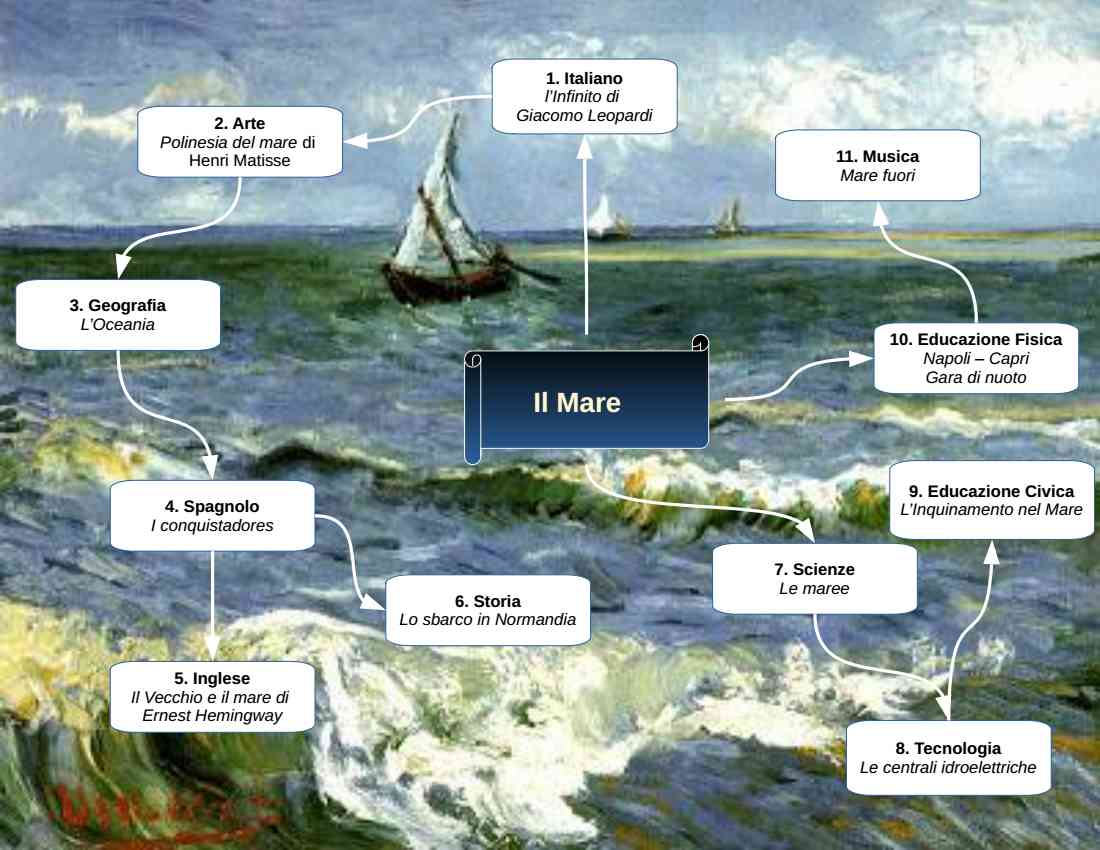
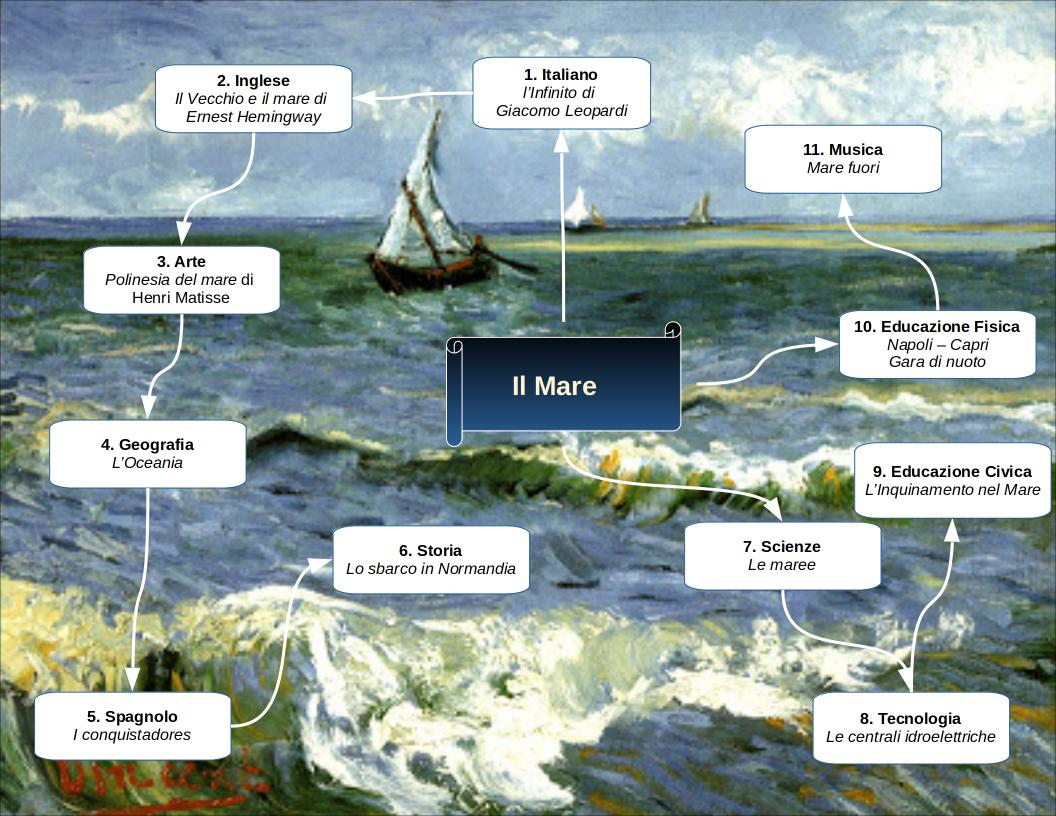
Aggiornamenti

diff --git a/docs/conf.py b/docs/conf.py
@@ -19,6 +19,8 @@ latex_documents = [
     ('index', 'Mare.tex', project, author, 'manual'),
 ]
 latex_elements = {
+    'pointsize': '12pt',
+    'pxunit': '0.50bp',
     'extraclassoptions': 'openany,oneside',
     'releasename': 'IC22 "Alberto Mario" - A.S. 2022/2023'
 }

diff --git a/docs/storia.rst b/docs/storia.rst
@@ -7,27 +7,34 @@ Lo sbarco in Normandia
 
 Lo **Sbarco in Normandia** fu una delle più grandi invasioni provenienti dal mare che accadde durante la seconda guerra mondiale.
 
-Venne deciso attraverso la **Conferenza di Teheran** del Novembre-dicembre 1943, durante la quale il presidente americano **Franklin Delano Roosevelt**, il leader dell’Unione Sovietica **Iosif Stalin** e il Primo ministro del Regno unito **Winston Churchill** discussero le varie possibilità per contrastare Hitler e il Nazismo.
+Venne deciso attraverso la **Conferenza di Teheran** del Novembre-dicembre 1943, durante la quale il presidente americano **Franklin Delano Roosevelt**,
+il leader dell’Unione Sovietica **Iosif Stalin** e il Primo ministro del Regno unito **Winston Churchill** discussero le varie possibilità per
+contrastare Hitler e il Nazismo.
 
-Il **D-Day** fu la più grande operazione coordinata navale, aerea e terrestre della storia e richiese una cooperazione senza precedenti tra forze armate internazionali.
+Il **D-Day** fu la più grande operazione coordinata navale, aerea e terrestre della storia e richiese una cooperazione senza precedenti tra forze armate
+internazionali.
 
-Noto con il nome in codice di "**Operazione Overlord**", lo sbarco alleato sulle coste della Normandia segnò l’inizio di una lunga e complessa campagna per liberare il nord-est dell’Europa dall’occupazione tedesca.
+Noto con il nome in codice di "**Operazione Overlord**", lo sbarco alleato sulle coste della Normandia segnò l’inizio di una lunga e complessa campagna
+per liberare il nord-est dell’Europa dall’occupazione tedesca.
 
-.. image:: _images/sbarcoNormandia.jpg
-   :align: center
-
-Questa operazione, che fu anche una delle più complesse della storia, fu organizzata facendo attenzione al minimo dettaglio. L’obiettivo era eliminare il nazismo in Europa che si stava diffondendo velocemente come un virus.
+Questa operazione, che fu anche una delle più complesse della storia, fu organizzata facendo attenzione al minimo dettaglio.
+L’obiettivo era eliminare il nazismo in Europa che si stava diffondendo velocemente come un virus.
 
 Per fare ciò nel 1944 più di due milioni di soldati di oltre dodici Paesi si trovavano in Gran Bretagna in attesa dell’invasione.
 
+.. image:: _images/sbarcoNormandia.jpg
+   :align: center
+   :height: 300px
+
 Le forze alleate lanciarono un assalto combinato navale, aereo e terrestre contro la Francia occupata dai nazisti.
 
-Il 6 giugno 1944 le forze aeree si lanciarono in paracadute su diversi punti della Francia. Poco dopo le truppe terrestri sbarcarono su cinque spiagge e dettero inizio all’assalto via mare.
+Il 6 giugno 1944 le forze aeree si lanciarono in paracadute su diversi punti della Francia. Poco dopo le truppe terrestri sbarcarono su cinque spiagge
+e dettero inizio all’assalto via mare.
 
-Il giorno dello sbarco le forze alleate erano composte soprattutto da truppe statunitensi, britanniche e canadesi, ma inclusero l’appoggio navale, aereo o terrestre di Australia, Belgio, Repubblica Ceca, Olanda, Francia, Grecia, Nuova Zelanda, Norvegia, Rhodesia e Polonia.
+Il giorno dello sbarco le forze alleate erano composte soprattutto da truppe statunitensi, britanniche e canadesi, ma inclusero l’appoggio navale,
+aereo o terrestre di Australia, Belgio, Repubblica Ceca, Olanda, Francia, Grecia, Nuova Zelanda, Norvegia, Rhodesia e Polonia.
 
 La battaglia di Normandia durò quasi tre mesi, molto più a lungo di quanto gli strateghi alleati avessero previsto.
 
-Oggi si possono visitare molti musei dedicati alla storia dello sbarco in Normandia e della battaglia di Normandia, come per esempio il **Museo dello Sbarco** ad **Arromanches** o il **Centro Juno Beach** a **Courseulles-sur-Mer**.
-
-Un’altra tappa fondamentale è sicuramente la vista dei cimiteri militari, primo fra tutti il **Cimitero americano** di Normandia a Colleville-sur-Mer.
+Oggi si possono visitare molti musei dedicati alla storia dello sbarco in Normandia e della battaglia di Normandia, come per esempio
+il **Museo dello Sbarco**.

diff --git a/docs/letteratura.rst b/docs/letteratura.rst
@@ -3,6 +3,8 @@ Italiano
 ========
 
 .. image:: _images/infinitoLeopardi.jpg
+   :align: center
+   :height: 300px
 
 Cenni di vita di Giacomo Leopardi
 =================================
@@ -11,7 +13,8 @@ Nacque a Recanati nell’anno 1798, nelle Marche da una famiglia della nobiltà 
 presto iniziò a studiare da solo grazie alla grande libreria del padre. Nel **1822** si trasferì a **Roma** sia per un suo interesse nell'entrare nel mondo
 degli intellettuali sia per intraprendere una carriera ecclesiastica. Dopo poco però Leopardi tornò a casa deluso dall’ignoranza che aveva visto a Roma.
 
-Scrisse molte poesie importanti e note come ad esempio “**A Silvia**” dedicata alla sua amata, Teresa Fattorini, figlia del cocchiere di casa Leopardi morta a soli ventun anni per tisi polmonare.
+Scrisse molte poesie importanti e note come ad esempio “**A Silvia**” dedicata alla sua amata, Teresa Fattorini, figlia del cocchiere di casa Leopardi
+morta a soli ventun anni per tisi polmonare.
 
 Morì nel **1837** a **Napoli** a soli 39 anni.
 
@@ -23,8 +26,12 @@ Nella poesia “**L'Infinito**”, Leopardi guarda elementi del paesaggio a lui 
 
 La poesia si compone di due parti:
 
-#. nella **prima parte** il poeta è seduto sul colle Tabor, a Recanati, e una “siepe” impedisce di osservare “gran parte dell’estrema linea dell’orizzonte”. Questo limite dato dalla siepe, permette al poeta di lasciarsi andare con l’immaginazione, figurandosi “spazi sterminati, e silenzi non concepibili dalla mente umana, e una quiete profondissima” che quasi lo lasciano sbigottito.
-#. nella **seconda parte**, il fruscio delle foglie mosse dal vento lo richiama alla realtà, ed il poeta confronta questa percezione con l’**infinito silenzio** dello spazio e l'**infinito temporale**, l’**eternità**, fatta dalle “epoche passate e ora scomparse” e dal “tempo attuale, presente, vivente”.
+#. nella **prima parte** il poeta è seduto sul colle Tabor, a Recanati, e una “siepe” impedisce di osservare “gran parte dell’estrema linea dell’orizzonte”.
+Questo limite dato dalla siepe, permette al poeta di lasciarsi andare con l’immaginazione, figurandosi “spazi sterminati, e silenzi non concepibili
+dalla mente umana, e una quiete profondissima” che quasi lo lasciano sbigottito.
+#. nella **seconda parte**, il fruscio delle foglie mosse dal vento lo richiama alla realtà, ed il poeta confronta questa percezione con
+l’**infinito silenzio** dello spazio e l'**infinito temporale**, l’**eternità**, fatta dalle “epoche passate e ora scomparse” e dal “tempo attuale,
+presente, vivente”.
 
 L'ultimo verso, il più famoso dell’intera storia della letteratura italiana, recita:
 
@@ -32,9 +39,11 @@ L'ultimo verso, il più famoso dell’intera storia della letteratura italiana, 
 
     "Così tra questa immensità s'annega il pensier mio: e il naufragar m'è dolce in questo mare. "
 
-Al termine della lirica, quindi, il poeta richiama il mare che dà l'idea dello spazio vasto, senza limiti. Il poeta si ritrova non solo più vicino all’infinito, ma vi si abbandona dolcemente.
+Al termine della lirica, quindi, il poeta richiama il mare che dà l'idea dello spazio vasto, senza limiti. Il poeta si ritrova non solo più vicino
+all’infinito, ma vi si abbandona dolcemente.
 
-Leggendo questa lirica è possibile percepire tutta la potenza dell’immaginazione, il piacere di questo dolce naufragio, ma anche lo sgomento che provoca il pensiero di una realtà così vasta, di un’eternità che scorre senza interruzioni, legando il passato al presente, e il presente al futuro.
+Leggendo questa lirica è possibile percepire tutta la potenza dell’immaginazione, il piacere di questo dolce naufragio, ma anche lo sgomento
+che provoca il pensiero di una realtà così vasta, di un’eternità che scorre senza interruzioni, legando il passato al presente, e il presente al futuro.
 
 L'idillio si basa su un confronto continuo tra **limite** e **infinito**, tra **suoni della realtà** e il **silenzio dell'eternità**.
 

diff --git a/docs/scienze.rst b/docs/scienze.rst
@@ -13,15 +13,19 @@ Questo fenomeno è dovuto all’attrazione gravitazionale esercitata sulla Terra
    :align: center
    :height: 300px
 
-La Luna è la principale causa delle maree, in conseguenza del fatto che la misura del diametro terrestre non è del tutto trascurabile rispetto alla distanza tra la Luna e la Terra.
+La Luna è la principale causa delle maree, in conseguenza del fatto che la misura del diametro terrestre non è del tutto trascurabile rispetto
+alla distanza tra la Luna e la Terra.
 
 Ampiezza, frequenza e orario delle maree sono legati ai fenomeni astronomici e da numerosi aspetti morfologici.
 
-Le stesse forze e gli stessi principi che regolano le maree dei corpi liquidi, agiscono pure sui corpi solidi, in particolare è stata documentata la deformazione della crosta terrestre.
+Le stesse forze e gli stessi principi che regolano le maree dei corpi liquidi, agiscono pure sui corpi solidi, in particolare è stata documentata
+la deformazione della crosta terrestre.
 
-L'ampiezza effettiva del livello del mare dipende inoltre da fenomeni meteorologici per nulla legati alle maree, ma che ne esaltano gli effetti. In particolare si tratta degli effetti del vento.
+L'ampiezza effettiva del livello del mare dipende inoltre da fenomeni meteorologici per nulla legati alle maree, ma che ne esaltano gli effetti.
+In particolare si tratta degli effetti del vento.
 
-La Luna, essendo più vicina alla Terra, può esercitare una maggiore forza di attrazione sull’acqua che tende a rigonfiarsi. Meno intuitivo il secondo caso, in cui il sollevamento delle acque è determinato dalla forza centrifuga.
+La Luna, essendo più vicina alla Terra, può esercitare una maggiore forza di attrazione sull’acqua che tende a rigonfiarsi. Meno intuitivo il secondo caso,
+in cui il sollevamento delle acque è determinato dalla forza centrifuga.
 
 Ugualmente alla Luna, anche il Sole produce un’azione di marea che risulta però meno efficace a causa della notevole distanza Terra-Sole.
 
@@ -30,7 +34,8 @@ Si possono distinguere due tipi di maree: le **maree vive** e le **maree morte**
 Maree vive
 ----------
 
-Nei giorni di Luna piena e di Luna nuova, quando Sole, Luna e Terra sono astronomicamente allineati, all'attrazione esercitata dalla Luna si aggiunge anche quella esercitata dal Sole con la conseguenza che l'alta marea ha un'**ampiezza massima**: in questo caso si parla di **maree vive**.
+Nei giorni di Luna piena e di Luna nuova, quando Sole, Luna e Terra sono astronomicamente allineati, all'attrazione esercitata dalla Luna
+si aggiunge anche quella esercitata dal Sole con la conseguenza che l'alta marea ha un'**ampiezza massima**: in questo caso si parla di **maree vive**.
 
 .. image:: _images/marea_viva.png
    :align: center
@@ -39,7 +44,8 @@ Nei giorni di Luna piena e di Luna nuova, quando Sole, Luna e Terra sono astrono
 Maree morte
 -----------
 
-Quando la Luna e il Sole formano un angolo di 90 gradi, l'attrazione esercitata dalla Luna incontra la resistenza dell'attrazione esercitata dal Sole con la conseguenza che l'alta marea ha un'**ampiezza minima** quindi si parla di **maree morte**.
+Quando la Luna e il Sole formano un angolo di 90 gradi, l'attrazione esercitata dalla Luna incontra la resistenza dell'attrazione esercitata dal Sole con la
+conseguenza che l'alta marea ha un'**ampiezza minima** quindi si parla di **maree morte**.
 
 .. image:: _images/marea_morta.png
    :align: center

diff --git a/docs/scienze_motorie.rst b/docs/scienze_motorie.rst
@@ -11,18 +11,22 @@ La gara di nuoto **Capri - Napoli** è una delle più antiche e difficili marato
    :align: center
    :height: 300px
 
-Nel 1949 due appassionati nuotatori, **Aldo Fioravanti** e **Cesare Alfieri**, coprirono per primi a nuoto, in circa 12 ore, il tragitto da Napoli a Capri, con una media di 30 bracciate per minuto.
+Nel 1949 due appassionati nuotatori, **Aldo Fioravanti** e **Cesare Alfieri**, coprirono per primi a nuoto, in circa 12 ore, il tragitto da Napoli a Capri,
+con una media di 30 bracciate per minuto.
 
 La prima edizione risale al 1° agosto 1954 e fino al 1992 ha assegnato, su gara unica, il titolo mondiale delle lunghe distanze.
 
 La gara fu sospesa fra il 1993 ed il 2002 e venne ripresa solo nel 2003, anno dal quale è di nuovo una classica del circuito della **Coppa del Mondo FINA**.
 
-Il golfo di Napoli è l’affascinante campo gara di questa storica competizione che, normalmente, parte da Marina Grande a Capri ed arriva presso il lungomare di Napoli, sulla distanza di 36 km.
+Il golfo di Napoli è l’affascinante campo gara di questa storica competizione che, normalmente, parte da Marina Grande a Capri ed arriva presso il
+lungomare di Napoli, sulla distanza di 36 km.
 
-Originariamente promossa come traversata libera, si sviluppò diventando una **due giorni** in cui gli atleti, partiti dal lungomare di Napoli, raggiungevano l'Isola di Capri, sulla quale sostavano e si riposavano e da cui ripartivano la mattina del giorno dopo, per ripercorrere tragitto a ritroso verso il traguardo finale di Napoli.
+Originariamente promossa come traversata libera, si sviluppò diventando una **due giorni** in cui gli atleti, partiti dal lungomare di Napoli,
+raggiungevano l'Isola di Capri, sulla quale sostavano e si riposavano e da cui ripartivano la mattina del giorno dopo, per ripercorrere tragitto
+a ritroso verso il traguardo finale di Napoli.
 
-La durata di gara per i vincitori, negli ultimi anni, è compresa tra le 6 ore e 4' e le 6 ore e 45', soprattutto  in relazione alle condizioni del mare. Tempi molto lontani da quelli delle prime edizioni, quando la vittoria arrivava dopo aver nuotato ben oltre le 10 ore!
+La durata di gara per i vincitori, negli ultimi anni, è compresa tra le 6 ore e 4' e le 6 ore e 45', soprattutto  in relazione alle condizioni del mare.
+Tempi molto lontani da quelli delle prime edizioni, quando la vittoria arrivava dopo aver nuotato ben oltre le 10 ore!
 
-Il successo della competizione trova riscontro nei suoi numeri: **700** atleti partecipanti, con un computo di **1.577** atleti partenti nelle 56 edizioni, appartenenti a **57 nazioni** di tutti e 5 i continenti.
-
-Il record di vittorie individuali appartiene ad un italiano, il napoletano **Giulio Travaglio**, trionfatore all'arrivo per ben 5 volte (1965, 1966, 1967, 1968 e 1970), rappresentante di una grande e lunga tradizione natatoria italiana in questa disciplina.
+Il record di vittorie individuali appartiene ad un italiano, il napoletano **Giulio Travaglio**, trionfatore all'arrivo per ben 5 volte (1965, 1966, 1967, 1968 e 1970),
+rappresentante di una grande e lunga tradizione natatoria italiana in questa disciplina.

diff --git a/docs/cittadinanza_costituzione.rst b/docs/cittadinanza_costituzione.rst
@@ -9,22 +9,24 @@ La produzione mondiale di resine e fibre plastiche è cresciuta dai 2 milioni di
 
 Oltre 8.300 milioni di tonnellate prodotte in 65 anni hanno fatto diventare la plastica uno degli elementi simbolo dell’inquinamento prodotto dalle industrie.
 
-Purtroppo la plastica si degrada completamente solo dopo un centinaio di anni; se non bruciata o riciclata correttamente, finisce nell’ambiente favorendo l’alterazione di ecosistemi troppo delicati.
-Oggi solo il 20% della plastica prodotta è riciclata o incenerita. Il resto si accumula come scarto sia a terra che in acqua.
+Purtroppo la plastica si degrada completamente solo dopo un centinaio di anni; se non bruciata o riciclata correttamente, finisce nell’ambiente
+favorendo l’alterazione di ecosistemi troppo delicati. Oggi solo il 20% della plastica prodotta è riciclata o incenerita. Il resto si accumula come
+scarto sia a terra che in acqua.
 
 Di conseguenza dai 4 ai 12 milioni di tonnellate di plastica finiscono nei mari di tutto il mondo ogni anno, causando l’80% dell’**inquinamento marino**.
 
 La maggior parte dei rifiuti che troviamo in mare sono spesso bottiglie, imballaggi, reti da pesca, sacchetti, fazzoletti e mozziconi.
 
+Questa plastica danneggia la fauna marina come i pesci, le tartarughe o i delfini che molto spesso muoiono perché ingeriscono
+involontariamente plastica, o perché intrappolati dalla stessa.
+
 .. image:: _images/inquinamentomare.jpeg
    :align: center
    :height: 300px
 
-Questa plastica danneggia la fauna marina come i pesci, le tartarughe o i delfini che molto spesso muoiono perché ingeriscono involontariamente plastica, o perché intrappolati dalla stessa.
-
 I pesci ingeriscono plastica perché non riescono a distinguere le microparticelle di plastica dalle altre sostanze nutritive.
 
-E anche ingeriamo microplastica, avvelenando il nostro organismo, quando questi pesci arrivano sulle nostre tavole catturati dai pescatori.
+E anche noi ingeriamo microplastica, avvelenando il nostro organismo, quando questi pesci arrivano sulle nostre tavole catturati dai pescatori.
 
 È quindi molto importante cercare di utilizzare meno plastica e smettere di inquinare il mare e la terra.
 

diff --git a/docs/spagnolo.rst b/docs/spagnolo.rst
@@ -11,11 +11,13 @@ Los conquistadores
 
 El término "**conquistadores**" es una palabra en español y portugués que en italiano significa "**conquistatori**".
 
-Este término se utiliza comúnmente para referirse a los soldados, exploradores y aventureros que llevaron gran parte de las Américas bajo el control del imperio colonial español entre los siglos XV y XVII.
+Este término se utiliza comúnmente para referirse a los soldados, exploradores y aventureros que llevaron gran parte de las Américas bajo el
+control del imperio colonial español entre los siglos XV y XVII.
 
 La mayoría de los conquistadores eran en realidad pobres, nobles decadentes o cadetes dedicados a las armas.
 
-Los conquistadores eran soldados y aventureros (principalmente españoles y portugueses) que, después del descubrimiento de América en 1492, emprendieron expediciones de conquista, motivados por el deseo de oro.
+Los conquistadores eran soldados y aventureros (principalmente españoles y portugueses) que, después del descubrimiento de América en 1492,
+emprendieron expediciones de conquista, motivados por el deseo de oro.
 
 Sus expediciones casi siempre fueron financiadas por la monarquía española.
 
@@ -27,4 +29,5 @@ Desde las colonias americanas llegaron nuevos productos como la papa o el cacao,
 
 Las importaciones de metales preciosos duraron hasta el siglo XVII. Las cantidades máximas se alcanzaron entre 1580 y 1630.
 
-Junto con las riquezas también surgieron motivos fundados de preocupación, ya que para la monarquía era complicado controlar las iniciativas de los conquistadores.
+Junto con las riquezas también surgieron motivos fundados de preocupación, ya que para la monarquía era complicado controlar las iniciativas
+de los conquistadores.

diff --git a/docs/musica.rst b/docs/musica.rst
@@ -11,7 +11,8 @@ una cattiva strada.
 
 Mare fuori
 ==========
-La serie televisiva "Mare fuori" racconta le storie di una serie di ragazzi finiti in un carcere minorile, dalle cui sbarre vedono quel mare ormai lontano per tutti loro.
+La serie televisiva "Mare fuori" racconta le storie di una serie di ragazzi finiti in un carcere minorile, dalle cui sbarre vedono quel mare ormai
+lontano per tutti loro.
 
 La storia racconta sia di ragazzi provenienti dai contesti più poveri e totalmente inghiottiti dal buio della camorra che di giovani provenienti
 da famiglie perbene e benestanti, riuniti tutti tra le mura del carcere minorile di Napoli.

diff --git a/docs/geografia.rst b/docs/geografia.rst
@@ -4,7 +4,7 @@ Geografia
 
 .. image:: _images/oceania.jpeg
    :align: center
-   :height: 230px
+   :height: 300px
 
 L’**Oceania** è una vasta regione nell’Oceano Pacifico, da molti considerata per convenzione un continente: oltre all’**Australia**,
 il vero e proprio continente, essa comprende due grandi isole – **Nuova Guinea** e **Nuova Zelanda** – e decine di migliaia di piccole isole.

diff --git a/docs/index.rst b/docs/index.rst
@@ -31,10 +31,10 @@ La mia tesina sul mare vuole esplorare questo ambiente straordinario sotto diver
    :maxdepth: -1
 
    letteratura
+   inglese
    arte
    geografia
    spagnolo
-   inglese
    storia
    scienze
    tecnologia
